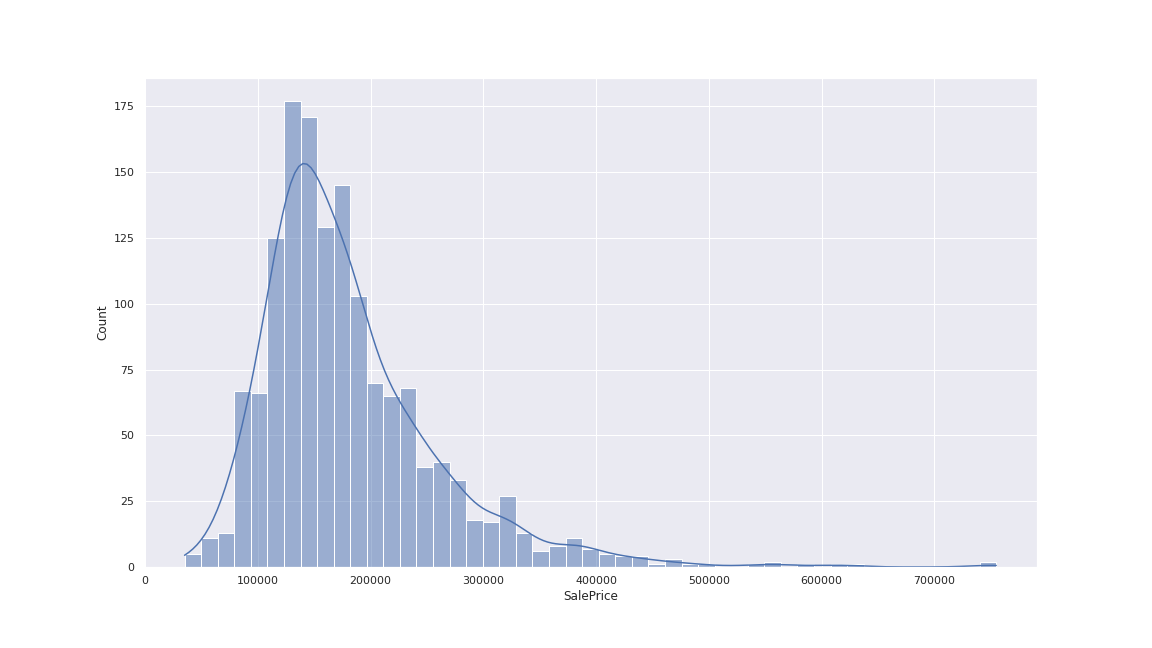
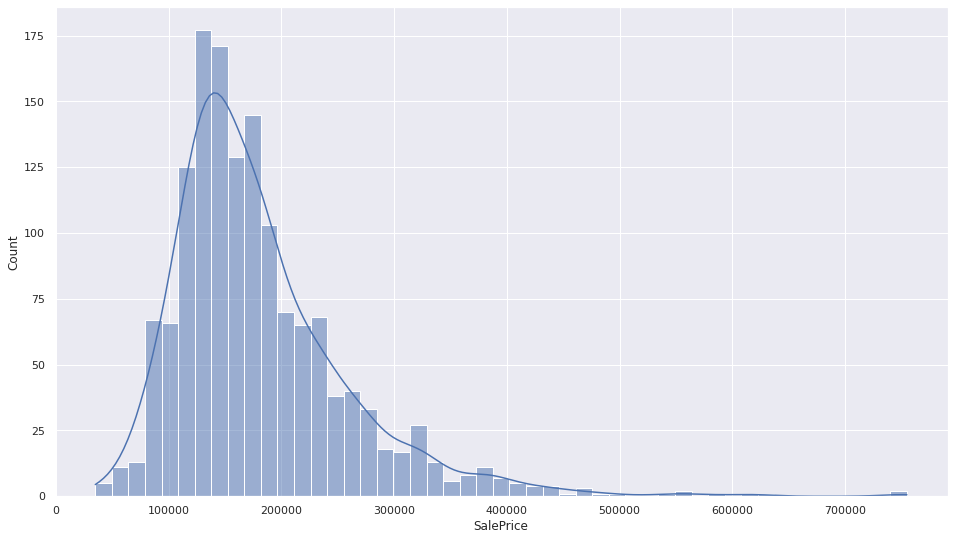
[CED-036] :bug: Fix cropped plot images & Add ReadMe comment

diff --git a/README.md b/README.md
@@ -3,7 +3,10 @@
 ## 01 EDA
 
 ### Features
+#### Dependent variable: SalePrice
 ![Alt text](plots/SalePrice_histplot.png?raw=true "Histplot for dependent variable ('SalePrice')")
+
+We got 1460 sale prices with a mean of roughly 181K and a median of 163K. It is positively skewed. The maximum value is 755K and the minimum value is 35K. With a σ of 79K the values are fairly volatile. Lower and upper percentile are 130K and 755K respectively.
 
 ### Correlations
 ![Alt text](plots/corr_heatmap.png?raw=true "Correlation heatmap")
